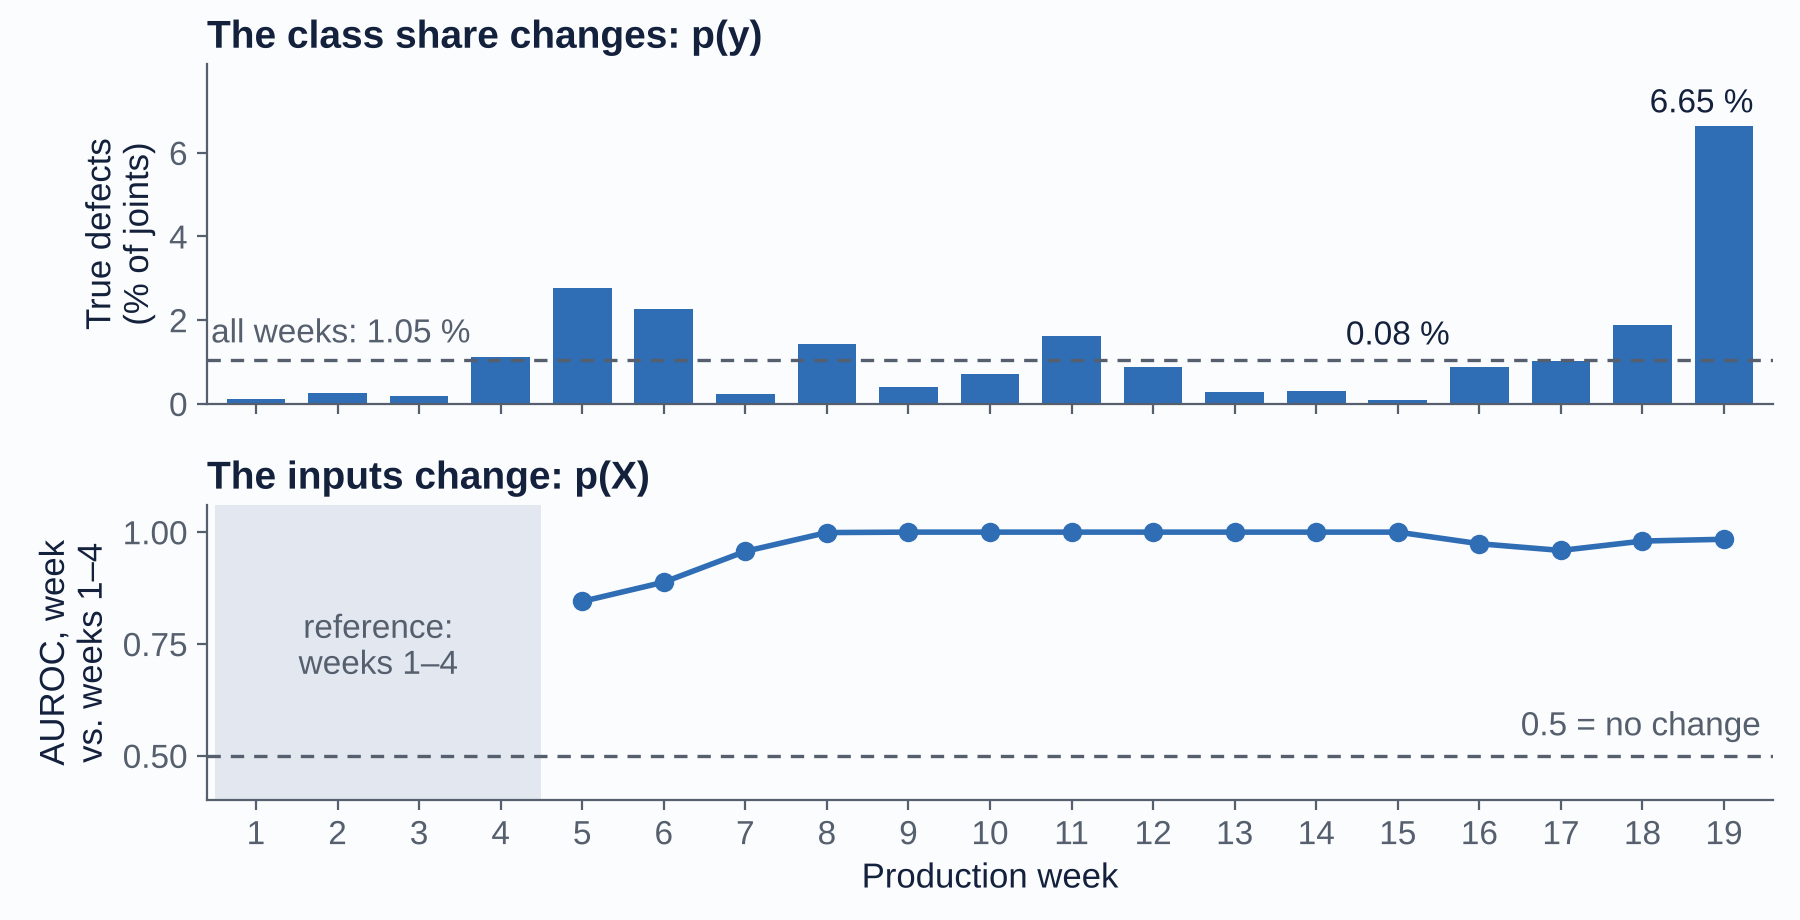
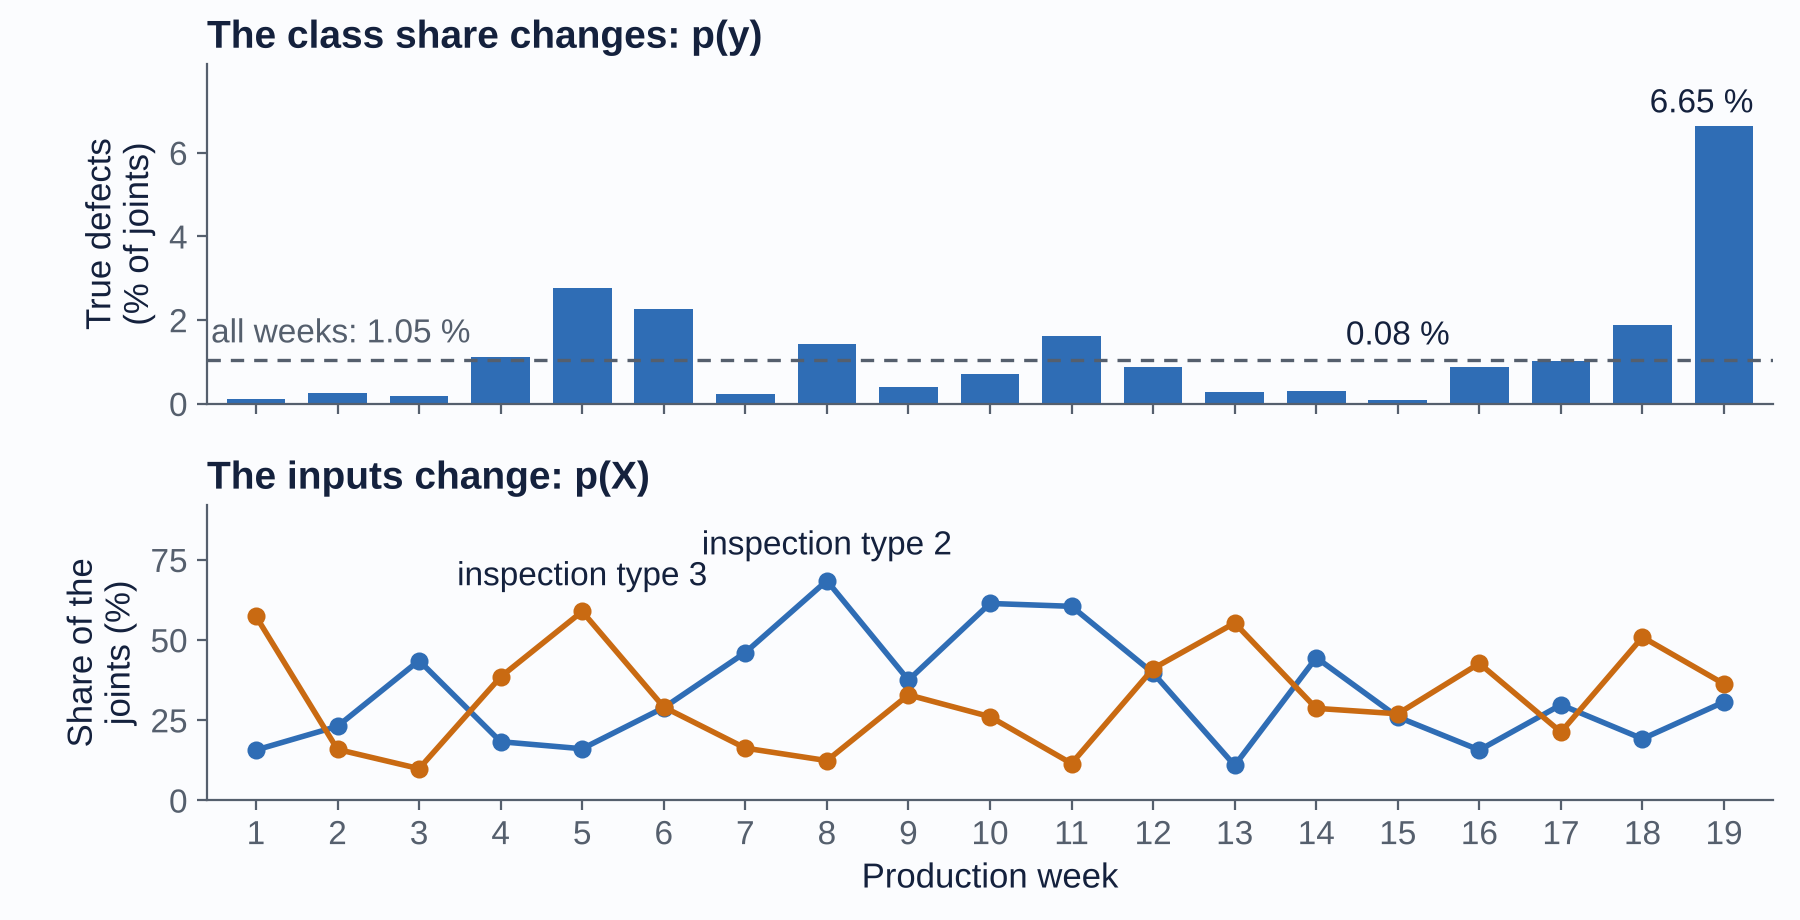
P3 drift evidence: show the change of the inputs as the weekly mix of inspection types

diff --git a/scripts/make_p3_slide_figures.py b/scripts/make_p3_slide_figures.py
@@ -274,10 +274,12 @@ def brf_principle():
 
 
 def drift_evidence():
-    """Data fact for the drift slide: p(y) and p(X) both change from week to week (whole data set)."""
+    """Data fact for the drift slide: p(y) and p(X) both change from week to week (whole data set).
+
+    Top: share of true defects. Bottom: share of the joints of inspection types 2 and 3.
+    """
     d = json.load(open("results/p3_drift.json"))
     w = np.array(d["weeks"]); share = np.array(d["share_pct"])
-    au = np.array([np.nan if a is None else a for a in d["auroc_vs_weeks_1_4"]], dtype=float)
     fig, (a1, a2) = plt.subplots(2, 1, figsize=(9, 4.6), sharex=True, gridspec_kw={"height_ratios": [1.15, 1], "hspace": 0.32})
     a1.bar(w, share, color=BLUE, width=0.72)
     mean = 100 * sum(d["true_defects"]) / sum(d["rows"])
@@ -290,13 +292,14 @@ def drift_evidence():
     a1.set_ylim(0, share.max() * 1.22); a1.set_yticks([0, 2, 4, 6])
     a1.set_ylabel("True defects\n(% of joints)", fontsize=12.5)
     a1.set_title("The class share changes: p(y)", fontsize=14, color=NAVY, loc="left", fontweight="bold")
-    a2.axvspan(0.5, 4.5, color=LGREY, alpha=0.35, lw=0)
-    a2.text(2.5, 0.75, "reference:\nweeks 1–4", ha="center", va="center", fontsize=12, color=GREY, linespacing=1.15)
-    a2.axhline(0.5, color=GREY, lw=1.2, ls=(0, (4, 3)))
-    a2.text(19.45, 0.53, "0.5 = no change", ha="right", va="bottom", fontsize=12, color=GREY)
-    a2.plot(w, au, color=BLUE, lw=2, marker="o", ms=6)
-    a2.set_ylim(0.4, 1.06); a2.set_yticks([0.5, 0.75, 1.0])
-    a2.set_ylabel("AUROC, week\nvs. weeks 1–4", fontsize=12.5)
+    ORANGE = "#C96A12"
+    for k, col, dy in (("2", BLUE, 6), ("3", ORANGE, 6)):
+        v = np.array(d["inspection_type_share_pct"][k])
+        a2.plot(w, v, color=col, lw=2, marker="o", ms=5.5)
+        i = int(v.argmax())
+        a2.text(w[i], v[i] + dy, f"inspection type {k}", ha="center", va="bottom", fontsize=12, color=NAVY)
+    a2.set_ylim(0, 92); a2.set_yticks([0, 25, 50, 75])
+    a2.set_ylabel("Share of the\njoints (%)", fontsize=12.5)
     a2.set_title("The inputs change: p(X)", fontsize=14, color=NAVY, loc="left", fontweight="bold")
     a2.set_xticks(w); a2.set_xlim(0.4, 19.6); a2.set_xlabel("Production week", fontsize=12.5)
     for a in (a1, a2):

diff --git a/scripts/p3_drift_evidence.py b/scripts/p3_drift_evidence.py
@@ -4,6 +4,7 @@
 
 Per week (7 calendar days from the first day):
   share_pct            true defects in % of the flagged joints            -> does p(y) change?
+  inspection_type_share_pct  share of the rows of each inspection type           -> does p(X) change? (simple view)
   auroc_vs_weeks_1_4   AUROC of a random forest that separates the rows of the week from the rows of
                        weeks 1-4, from the inputs only (no class); 0.5 = same distribution  -> does p(X) change?
 Concept drift is a change of p(X, y) over time [12, Sect. 2.1, Eq. 2].
@@ -31,6 +32,8 @@ for w in range(1, week.max() + 1):
     out["weeks"].append(w); out["rows"].append(int(len(i))); out["true_defects"].append(int(y[i].sum())); out["share_pct"].append(round(100 * y[i].mean(), 3))
     out["auroc_vs_weeks_1_4"].append(None if w <= 4 else round(auc(ref, i), 3))
 out["auroc_weeks_1_4_random_halves"] = round(base, 3)
-out["note"] = "week = 7 calendar days from the first day; AUROC of a random forest (200 trees, 3-fold CV, up to 6,000 rows per side, inputs only, no class) that separates the rows of a week from the rows of weeks 1-4; 0.5 = same input distribution"
+t = (100 * pd.crosstab(week, df["inspection_type"].to_numpy(), normalize="index")).round(1)
+out["inspection_type_share_pct"] = {str(c): [float(v) for v in t[c]] for c in t.columns}
+out["note"] = "week = 7 calendar days from the first day; AUROC of a random forest (200 trees, 3-fold CV, up to 6,000 rows per side, inputs only, no class) that separates the rows of a week from the rows of weeks 1-4; 0.5 = same input distribution; inspection_type_share_pct: share of the rows of each inspection type per week"
 json.dump(out, open("results/p3_drift.json", "w"), indent=1)
 print(json.dumps(out))
